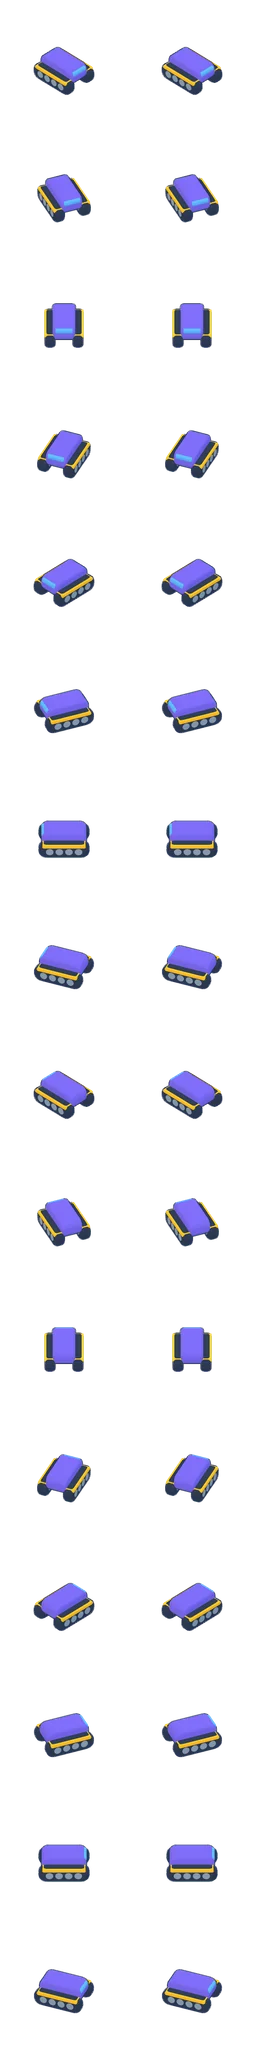
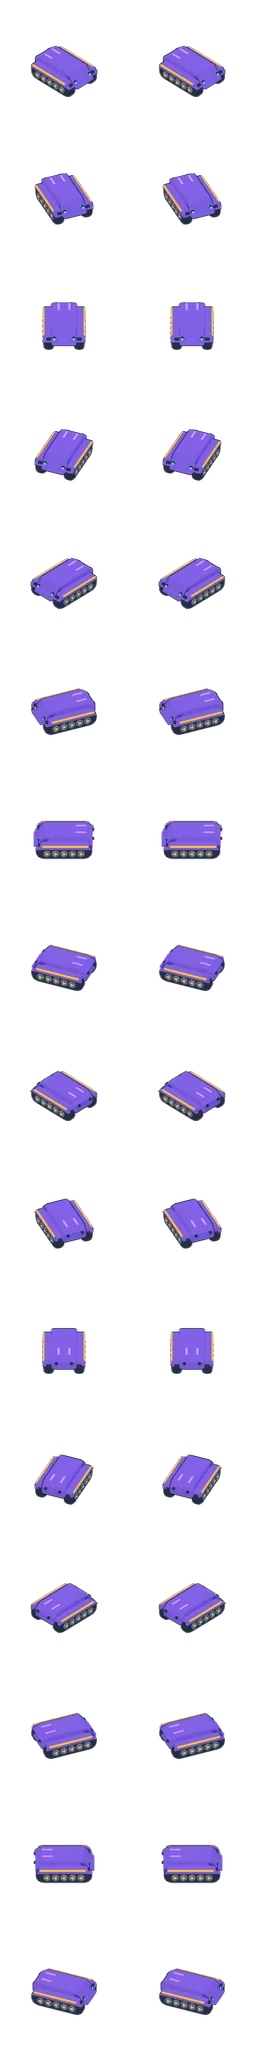
Redesign 3D bomber, helicopter and tanks with detailed military models (392)
Claude-Session: https://claude.ai/code/session_01ENEEn5t6aRdnVfFLYAeBwL

diff --git a/features/render3d/vehicles3d.html b/features/render3d/vehicles3d.html
@@ -8,7 +8,7 @@ const canvas=document.getElementById('c');
 const R=new T.WebGLRenderer({canvas,antialias:true,alpha:true,preserveDrawingBuffer:true});
 R.setClearColor(0,0);R.outputColorSpace=T.SRGBColorSpace;
 const S=new T.Scene();
-const cam=new T.OrthographicCamera(-2.2,2.2,2.4,-2.0,0.1,100);cam.position.set(10,11.17,10);cam.lookAt(0,0.3,0);
+const cam=new T.OrthographicCamera(-2.1,2.1,2.3,-1.9,0.1,100);cam.position.set(10,11.17,10);cam.lookAt(0,0.3,0);
 S.add(new T.HemisphereLight(0xfff6e8,0x5571a3,1.35));
 const sun=new T.DirectionalLight(0xfff0d6,3.0);sun.position.set(-3,10,7);S.add(sun);
 const rim=new T.DirectionalLight(0x9fe3ff,1.4);rim.position.set(7,3,-5);S.add(rim);
@@ -23,56 +23,114 @@ const cap=(r,l,sx=1,sz=1)=>{const g=new T.CapsuleGeometry(r,l,10,28);g.scale(sx,
 const cyl=(a,b,h,s=28)=>new T.CylinderGeometry(a,b,h,s);
 function rbox(w,h,d,r){r=Math.min(r,w/2-0.001,h/2-0.001);const s=new T.Shape(),x=-w/2+r,y=-h/2+r;s.moveTo(x,-h/2);s.lineTo(w/2-r,-h/2);s.quadraticCurveTo(w/2,-h/2,w/2,y);s.lineTo(w/2,h/2-r);s.quadraticCurveTo(w/2,h/2,w/2-r,h/2);s.lineTo(x,h/2);s.quadraticCurveTo(-w/2,h/2,-w/2,h/2-r);s.lineTo(-w/2,y);s.quadraticCurveTo(-w/2,-h/2,x,-h/2);
  const dd=Math.max(0.01,d-2*r*0.6);const geo=new T.ExtrudeGeometry(s,{depth:dd,bevelEnabled:true,bevelSize:r*0.6,bevelThickness:r*0.6,bevelSegments:5,curveSegments:10});geo.translate(0,0,-dd/2);geo.computeVertexNormals();return geo;}
-const W=M(0xe6eef8),B=M(0x4f9fe0),NV=M(0x2b4f8f),G=M(0xf2a91e),D=M(0x27324a),ST=M(0x7a8aa0),PU=M(0x6a5ad8),
- GLOW=new T.MeshBasicMaterial({color:0x5ff2ff}),FIRE=new T.MeshBasicMaterial({color:0xffb04a,transparent:true,opacity:.9}),
- BLUR=new T.MeshBasicMaterial({color:0xdfefff,transparent:true,opacity:.35,side:T.DoubleSide}),HOT=new T.MeshBasicMaterial({color:0xffe08a,transparent:true,opacity:.95});
+const W=M(0xe3eaf3),LG=M(0xb9c6d6),B=M(0x3f8fd8),NV=M(0x24426f),G=M(0xf2a91e),D=M(0x232a3b),ST=M(0x5d6c84),PU=M(0x6b4fc8),PU2=M(0x4a3596),RD=M(0xd8322b),
+ GLASS=M(0x2f73b3,0x0b2a48),GLOW=new T.MeshBasicMaterial({color:0x5ff2ff}),PGLOW=new T.MeshBasicMaterial({color:0xd59bff}),
+ JET=new T.MeshBasicMaterial({color:0x8ff4ff,transparent:true,opacity:.9}),FIRE=new T.MeshBasicMaterial({color:0xffb04a,transparent:true,opacity:.9}),
+ BLUR=new T.MeshBasicMaterial({color:0xe8f4ff,transparent:true,opacity:.07,side:T.DoubleSide,depthWrite:false}),HOT=new T.MeshBasicMaterial({color:0xffe08a,transparent:true,opacity:.95}),
+ NAVR=new T.MeshBasicMaterial({color:0xff4a3a}),NAVG=new T.MeshBasicMaterial({color:0x5dff7a});
+// flat shape (x,y) extruded to thickness t, lying in the x-z plane (y of the shape becomes z)
+function plate(pts,t,bev=0.03){const sh=new T.Shape();pts.forEach((q,i)=>i?sh.lineTo(q[0],q[1]):sh.moveTo(q[0],q[1]));
+ const g=new T.ExtrudeGeometry(sh,{depth:Math.max(0.005,t-2*bev),bevelEnabled:true,bevelSize:bev,bevelThickness:bev,bevelSegments:4,curveSegments:8});g.translate(0,0,-(t-2*bev)/2);g.rotateX(-Math.PI/2);g.computeVertexNormals();return g;}
+// vertical side-profile shape (x,y) extruded to width w along z
+function prof(pts,w,bev=0.05){const sh=new T.Shape();pts.forEach((q,i)=>i?sh.lineTo(q[0],q[1]):sh.moveTo(q[0],q[1]));
+ const g=new T.ExtrudeGeometry(sh,{depth:Math.max(0.005,w-2*bev),bevelEnabled:true,bevelSize:bev,bevelThickness:bev,bevelSegments:4,curveSegments:8});g.translate(0,0,-(w-2*bev)/2);g.computeVertexNormals();return g;}
+// smooth body of revolution along x (pts = [radius, x] from tail to nose)
+function lathe(pts){const g=new T.LatheGeometry(pts.map(q=>new T.Vector2(q[0],q[1])),40);g.rotateZ(-Math.PI/2);g.computeVertexNormals();return g;}
 const MODELS={
- bomber(){const r=new T.Group(),anim=[];
-  mesh(cap(0.32,1.5).rotateZ(Math.PI/2),W,r);                                   // fuselage
-  mesh(sph(0.3,1.2,0.75,1),GLOW,r,1).position.set(0.78,0.16,0);                  // canopy
-  mesh(sph(0.33,0.9,0.5,1.02),NV,r,0).position.set(-0.1,0.2,0);                   // spine stripe
-  for(const s of [1,-1]){const wing=mesh(rbox(0.62,0.09,1.35,0.06),NV,r);wing.position.set(-0.15,0,s*0.85);wing.rotation.y=-s*0.38;
-   mesh(rbox(0.64,0.1,0.16,0.04),G,wing,0).position.set(0,0.0,s*0.6);
-   for(const k of [0.5,1.0]){const eng=new T.Group();eng.position.set(0.05-k*0.32,-0.08,s*k*0.92);r.add(eng);
-    mesh(cap(0.12,0.38).rotateZ(Math.PI/2),W,eng);mesh(cyl(0.13,0.13,0.08).rotateZ(Math.PI/2),G,eng,0).position.x=0.2;
-    const ex=new T.Mesh(sph(0.1,1.6,0.8,0.8),FIRE);ex.position.x=-0.38;eng.add(ex);anim.push(ex);}
-   const tail=mesh(rbox(0.45,0.08,0.7,0.05),NV,r);tail.position.set(-0.95,0.05,s*0.42);tail.rotation.y=-s*0.45;}
-  const fin=mesh(rbox(0.45,0.55,0.08,0.05),B,r);fin.position.set(-1.0,0.32,0);fin.rotation.z=0.35;
-  for(const z of [0.13,-0.13]){const bomb=mesh(cap(0.08,0.24).rotateZ(Math.PI/2),D,r);bomb.position.set(0.05,-0.3,z);mesh(sph(0.06),M(0xd8322b),bomb,0).position.x=0.2;}
-  return {root:r,anim:t=>anim.forEach((e,i)=>e.scale.setScalar(t%2?0.8:1.15)),muzzle:null};},
- heli(){const r=new T.Group();
-  mesh(sph(0.42,1.35,0.95,1),W,r).position.set(0.15,0,0);
-  mesh(sph(0.3,1.1,0.8,0.95),GLOW,r,1).position.set(0.5,0.08,0);
-  mesh(sph(0.43,1.1,0.55,1.02),B,r,0).position.set(0,0.22,0);
-  const boom=mesh(cap(0.1,1.1).rotateZ(Math.PI/2),W,r);boom.position.set(-0.85,0.12,0);
-  mesh(rbox(0.3,0.4,0.06,0.04),B,r).position.set(-1.45,0.32,0);
-  const tr=new T.Mesh(cyl(0.22,0.22,0.02,24).rotateX(Math.PI/2),BLUR);tr.position.set(-1.45,0.32,0.07);r.add(tr);
-  for(const s of [1,-1]){const sk=mesh(cap(0.04,0.9).rotateZ(Math.PI/2),ST,r);sk.position.set(0.15,-0.48,s*0.32);
-   const pod=mesh(cap(0.09,0.35).rotateZ(Math.PI/2),D,r);pod.position.set(0.25,-0.12,s*0.55);mesh(rbox(0.1,0.06,0.5,0.03),NV,r).position.set(0.15,-0.05,s*0.32);}
-  const mast=mesh(cyl(0.06,0.06,0.25),ST,r);mast.position.set(0.15,0.48,0);
-  const rot=new T.Group();rot.position.set(0.15,0.62,0);r.add(rot);
-  mesh(cyl(0.1,0.1,0.06),G,rot);
-  const blades=[];for(let k=0;k<4;k++){const b=mesh(rbox(1.15,0.03,0.12,0.02),NV,rot);b.position.x=0.58;const pv=new T.Group();pv.add(b);pv.rotation.y=k*Math.PI/2;rot.add(pv);blades.push(pv);}
-  const disc=new T.Mesh(cyl(1.2,1.2,0.01,40),BLUR);rot.add(disc);
-  const mz=new T.Group();mz.position.set(0.45,-0.12,0.55);r.add(mz);
-  return {root:r,anim:t=>{rot.rotation.y=t*Math.PI/6;},muzzle:mz};},
- tankHull(plasma){const r=new T.Group(),treads=[];const body=plasma?PU:W,trim=plasma?B:NV;
-  for(const s of [1,-1]){const tr=mesh(rbox(1.5,0.36,0.34,0.17),D,r);tr.position.set(0,0.2,s*0.48);
-   for(let i=0;i<4;i++){const w=mesh(cyl(0.13,0.13,0.36,20).rotateX(Math.PI/2),ST,r,0);w.position.set(-0.5+i*0.33,0.18,s*0.48);treads.push(w);}
-   mesh(rbox(1.45,0.08,0.38,0.04),G,r,0).position.set(0,0.4,s*0.48);}
-  mesh(rbox(1.35,0.38,0.78,0.16),body,r).position.set(0,0.48,0);
-  mesh(rbox(0.5,0.12,0.6,0.05),trim,r,0).position.set(0.5,0.62,0);
-  if(plasma){for(const z of [0.3,-0.3]){const c=new T.Mesh(sph(0.07),GLOW);c.position.set(-0.6,0.55,z);r.add(c);}}
-  return {root:r,anim:t=>treads.forEach(w=>w.rotation.z=-t*0.8),muzzle:null};},
- tankTurret(plasma){const r=new T.Group(),tur=new T.Group();tur.position.y=0.67;r.add(tur);const body=plasma?PU:W;
-  mesh(sph(0.36,1.15,0.6,1),body,tur).position.y=0.12;
-  mesh(sph(0.2,0.8,0.5,0.8),plasma?B:NV,tur,0).position.set(-0.05,0.26,0);
-  const barrel=new T.Group();barrel.position.set(0.3,0.15,0);tur.add(barrel);
-  mesh(cyl(0.08,0.09,0.9).rotateZ(-Math.PI/2),plasma?D:ST,barrel).position.x=0.45;
-  mesh(cyl(0.11,0.11,0.12).rotateZ(-Math.PI/2),G,barrel,0).position.x=0.85;
-  if(plasma){for(let i=0;i<3;i++){const ring=new T.Mesh(new T.TorusGeometry(0.11,0.025,8,24).rotateY(Math.PI/2),GLOW);ring.position.x=0.25+i*0.18;barrel.add(ring);}}
-  const mz=new T.Group();mz.position.x=0.95;barrel.add(mz);
-  return {root:r,anim:t=>{barrel.position.x=t?0.22:0.3;},muzzle:mz};}
+ bomber(){const r=new T.Group(),anim=[];r.position.y=0.2;
+  const prof0=[[0,-1.5],[0.1,-1.46],[0.19,-1.2],[0.27,-0.6],[0.31,0.1],[0.3,0.7],[0.24,1.1],[0.13,1.38],[0.02,1.5],[0,1.5]];
+  const fus=mesh(lathe(prof0),NV,r);fus.scale.set(1,0.88,1);
+  const belly=mesh(lathe(prof0),LG,r,0);belly.scale.set(0.985,0.62,1.02);belly.position.y=-0.07;
+  mesh(new T.TorusGeometry(0.305,0.025,8,40).rotateY(Math.PI/2),G,r,0).position.x=-0.25;
+  const can=mesh(sph(0.2,1.9,0.72,0.95),GLASS,r);can.position.set(0.98,0.17,0);
+  mesh(sph(0.07,1.8,0.4,0.5),M(0xbfe9ff),r,0).position.set(1.08,0.27,0.05);
+  // swept main wing, gold tip bands, nav lights
+  const wing=mesh(plate([[0.38,0],[-0.42,1.75],[-0.78,1.75],[-0.62,0],[-0.78,-1.75],[-0.42,-1.75]],0.09),W,r);wing.position.y=-0.02;
+  for(const s of [1,-1]){const tip=mesh(plate([[-0.34,1.5*s],[-0.42,1.75*s],[-0.78,1.75*s],[-0.74,1.5*s]],0.1,0.02),G,r,0);tip.position.y=-0.02;
+   const nl=new T.Mesh(sph(0.045),s>0?NAVG:NAVR);nl.position.set(-0.6,0.0,1.78*s);r.add(nl);
+   mesh(plate([[0.2,0.32*s],[-0.25,1.25*s],[-0.36,1.25*s],[-0.1,0.32*s]],0.095,0.02),NV,r,0).position.y=-0.015;
+   // engines
+   for(const z of [0.62,1.12]){const le=0.38-0.8*(z/1.75),eng=new T.Group();eng.position.set(le-0.2,-0.13,s*z);r.add(eng);
+    mesh(cap(0.105,0.42).rotateZ(Math.PI/2),LG,eng);
+    mesh(new T.TorusGeometry(0.1,0.03,8,24).rotateY(Math.PI/2),G,eng,0).position.x=0.3;
+    mesh(cyl(0.075,0.075,0.04,20).rotateZ(Math.PI/2),D,eng,0).position.x=0.32;
+    mesh(cyl(0.085,0.1,0.1,20).rotateZ(Math.PI/2),D,eng,0).position.x=-0.3;
+    const ex=new T.Mesh(sph(0.08,2.2,0.85,0.85),JET);ex.position.x=-0.46;eng.add(ex);anim.push(ex);
+    mesh(rbox(0.25,0.1,0.05,0.02),W,eng,0).position.set(0,0.1,0);}
+   // twin tail fins and stabilisers
+   const fin=mesh(prof([[0,0],[-0.5,0],[-0.62,0.55],[-0.4,0.55]],0.06,0.02),B,r);fin.position.set(-0.85,0.12,s*0.24);fin.rotation.x=-s*0.28;
+   mesh(prof([[-0.58,0.42],[-0.62,0.55],[-0.4,0.55],[-0.37,0.42]],0.07,0.015),G,fin,0);
+  }
+  mesh(plate([[-0.95,0],[-1.3,0.75],[-1.48,0.75],[-1.42,0],[-1.48,-0.75],[-1.3,-0.75]],0.06,0.02),W,r).position.y=0.05;
+  // bomb bay + belly turret
+  mesh(rbox(0.7,0.04,0.3,0.02),D,r,0).position.set(0.05,-0.25,0);
+  mesh(sph(0.09,1,0.7,1),GLASS,r).position.set(-0.55,-0.22,0);
+  return {root:r,anim:t=>anim.forEach((e,i)=>{const k=(t+i)%2?0.8:1.15;e.scale.set(k*1.1,k,k);}),muzzle:null};},
+ heli(){const r=new T.Group();r.position.y=0.05;
+  const body=mesh(lathe([[0,-0.5],[0.25,-0.42],[0.36,-0.1],[0.36,0.25],[0.28,0.55],[0.12,0.72],[0,0.75]]),NV,r);body.scale.set(1,1.05,0.92);
+  mesh(lathe([[0,-0.5],[0.25,-0.42],[0.36,-0.1],[0.36,0.25],[0.28,0.55],[0.12,0.72],[0,0.75]]),LG,r,0).scale.set(0.98,0.7,0.95);r.children.at(-1).position.y=-0.1;
+  const can=mesh(sph(0.24,1.25,0.8,0.82),GLASS,r);can.position.set(0.38,0.16,0);
+  mesh(sph(0.06,1.6,0.5,0.6),M(0xbfe9ff),r,0).position.set(0.5,0.27,0.07);
+  const boom=mesh(lathe([[0.02,-1.0],[0.07,-0.95],[0.12,-0.2],[0.16,0.1],[0,0.15]]),NV,r);boom.position.set(-0.45,0.12,0);
+  mesh(prof([[0,0],[-0.3,0],[-0.38,0.42],[-0.2,0.42]],0.05,0.02),B,r).position.set(-1.25,0.12,0);
+  mesh(plate([[-1.25,0],[-1.4,0.28],[-1.5,0.28],[-1.45,0],[-1.5,-0.28],[-1.4,-0.28]],0.04,0.015),W,r).position.y=0.14;
+  const trot=new T.Group();trot.position.set(-1.4,0.38,0.06);r.add(trot);
+  trot.add(new T.Mesh(cyl(0.2,0.2,0.01,28).rotateX(Math.PI/2),BLUR));mesh(cyl(0.04,0.04,0.04).rotateX(Math.PI/2),G,trot,0);
+  const tbl=[];for(let k=0;k<2;k++){const b=mesh(rbox(0.38,0.04,0.015,0.01),D,trot,0);b.rotation.z=k*Math.PI/2;tbl.push(b);}
+  for(const s of [1,-1]){const sk=mesh(cap(0.03,0.85).rotateZ(Math.PI/2),D,r);sk.position.set(0.05,-0.45,s*0.3);
+   for(const x of [0.25,-0.15]){const st=mesh(cyl(0.022,0.022,0.2),D,r,0);st.position.set(x,-0.36,s*0.27);}
+   const sw=mesh(plate([[0.15,0.2*s],[0.05,0.55*s],[-0.15,0.55*s],[-0.15,0.2*s]],0.06,0.02),W,r);sw.position.y=-0.05;
+   const pod=mesh(cyl(0.1,0.1,0.38,16).rotateZ(Math.PI/2),D,r);pod.position.set(0.0,-0.14,s*0.5);
+   for(let k=0;k<4;k++){const a=k*Math.PI/2+Math.PI/4;const tip=new T.Mesh(sph(0.03),NAVR);tip.position.set(0.2,-0.14+Math.sin(a)*0.05,s*0.5+Math.cos(a)*0.05);r.add(tip);}
+   mesh(new T.TorusGeometry(0.1,0.02,8,20).rotateY(Math.PI/2),G,r,0).position.set(0.12,-0.14,s*0.5);}
+  // chin gun
+  const chin=mesh(sph(0.09),D,r);chin.position.set(0.55,-0.2,0);const gun=mesh(cyl(0.03,0.03,0.3,12).rotateZ(-Math.PI/2),ST,r,0);gun.position.set(0.72,-0.22,0);
+  const mast=mesh(cyl(0.07,0.09,0.2),D,r);mast.position.set(0.0,0.42,0);
+  const rot=new T.Group();rot.position.set(0.0,0.55,0);r.add(rot);
+  mesh(sph(0.1,1,0.6,1),G,rot);
+  for(let k=0;k<4;k++){const pv=new T.Group();pv.rotation.y=k*Math.PI/2;rot.add(pv);const b=mesh(rbox(1.25,0.025,0.1,0.012),D,pv);b.position.x=0.66;mesh(rbox(0.12,0.03,0.105,0.01),G,pv,0).position.x=1.22;}
+  const disc=new T.Mesh(cyl(1.3,1.3,0.005,48),BLUR);rot.add(disc);
+  const mz=new T.Group();mz.position.set(0.88,-0.22,0);r.add(mz);
+  return {root:r,anim:t=>{rot.rotation.y=t*Math.PI/6;trot.rotation.z=t*1.3;},muzzle:mz};},
+ tankHull(plasma){const r=new T.Group(),wheels=[],links=[];const H=plasma?PU:W,T2=plasma?PU2:NV;
+  for(const s of [1,-1]){
+   // track belt with tread links
+   const belt=mesh(rbox(1.6,0.34,0.3,0.17),D,r);belt.position.set(0,0.19,s*0.5);
+   for(let i=0;i<10;i++){const l=mesh(rbox(0.07,0.03,0.31,0.012),ST,r,0);l.position.set(-0.68+i*0.15,0.365,s*0.5);links.push(l);}
+   for(let i=0;i<5;i++){const w=new T.Group();w.position.set(-0.56+i*0.28,0.16,s*0.66);r.add(w);mesh(cyl(0.12,0.12,0.05,22).rotateX(Math.PI/2),ST,w);
+    mesh(cyl(0.05,0.05,0.06,12).rotateX(Math.PI/2),G,w,0);for(let k=0;k<3;k++){const bolt=mesh(sph(0.018),D,w,0);bolt.position.set(Math.cos(k*2.1)*0.08,Math.sin(k*2.1)*0.08,s*0.03);}wheels.push(w);}
+   // fender / side skirt
+   const fen=mesh(prof([[0.86,0.33],[0.72,0.44],[-0.78,0.44],[-0.84,0.33]],0.36,0.03),H,r);fen.position.z=s*0.5;
+   mesh(rbox(1.5,0.04,0.05,0.015),G,r,0).position.set(-0.04,0.445,s*0.665);
+   const hl=new T.Mesh(sph(0.05,0.6,1,1),GLOW);hl.position.set(0.86,0.42,s*0.32);r.add(hl);
+   mesh(cyl(0.07,0.07,0.06,16).rotateZ(Math.PI/2),D,r,0).position.set(0.84,0.42,s*0.32);}
+  // hull: sloped glacis, engine deck
+  mesh(prof([[0.92,0.3],[0.62,0.62],[-0.7,0.62],[-0.88,0.5],[-0.88,0.3]],0.82,0.06),H,r);
+  mesh(prof([[0.85,0.38],[0.66,0.56],[0.5,0.56],[0.7,0.38]],0.84,0.02),T2,r,0);
+  for(let i=0;i<3;i++){const v=mesh(rbox(0.06,0.03,0.5,0.012),D,r,0);v.position.set(-0.45-i*0.12,0.645,0);}
+  for(const z of [0.25,-0.25]){const ex=mesh(cyl(0.05,0.05,0.12,14).rotateZ(Math.PI/2),D,r,0);ex.position.set(-0.93,0.48,z);}
+  if(plasma){for(const z of [0.18,-0.18]){const c=new T.Mesh(cap(0.04,0.3).rotateZ(Math.PI/2),PGLOW);c.position.set(-0.55,0.66,z);r.add(c);}}
+  return {root:r,anim:t=>{wheels.forEach(w=>w.rotation.z=-t*1.1);links.forEach((l,i)=>l.position.x=-0.68+((i*0.15+t*0.075)%1.5));},muzzle:null};},
+ tankTurret(plasma){const r=new T.Group(),tur=new T.Group();tur.position.y=0.62;r.add(tur);const H=plasma?PU:W,T2=plasma?PU2:NV;
+  // hexagonal turret (top view), bevelled
+  const hex=mesh(plate([[0.5,0],[0.3,0.38],[-0.38,0.4],[-0.52,0.2],[-0.52,-0.2],[-0.38,-0.4],[0.3,-0.38]],0.26,0.06),H,tur);hex.position.y=0.13;
+  mesh(plate([[0.4,0],[0.24,0.3],[-0.3,0.3],[-0.4,0.15],[-0.4,-0.15],[-0.3,-0.3],[0.24,-0.3]],0.06,0.02),T2,tur,0).position.y=0.28;
+  mesh(new T.TorusGeometry(0.46,0.022,8,48),G,tur,0).rotation.x=Math.PI/2;tur.children.at(-1).position.y=0.02;
+  // commander cupola + hatch + antenna
+  const cup=mesh(cyl(0.12,0.14,0.08,20),D,tur);cup.position.set(-0.18,0.34,0.15);mesh(cyl(0.1,0.1,0.03,20),H,tur,0).position.set(-0.18,0.39,0.15);
+  const ant=mesh(cyl(0.012,0.012,0.6,8),D,tur,0);ant.position.set(-0.42,0.55,-0.22);mesh(sph(0.03),RD,tur,0).position.set(-0.42,0.86,-0.22);
+  for(const s of [1,-1]){const box=mesh(rbox(0.3,0.14,0.08,0.03),T2,tur);box.position.set(-0.1,0.13,s*0.44);
+   for(let k=0;k<2;k++){const sm=mesh(cyl(0.035,0.035,0.1,10).rotateX(Math.PI/2),D,tur,0);sm.position.set(0.28,0.2+k*0.07,s*0.37);}}
+  const mant=mesh(rbox(0.16,0.2,0.3,0.05),T2,tur);mant.position.set(0.5,0.14,0);
+  const barrel=new T.Group();barrel.position.set(0.5,0.14,0);tur.add(barrel);
+  if(plasma){mesh(cyl(0.11,0.1,0.75,24).rotateZ(-Math.PI/2),D,barrel).position.x=0.42;
+   for(let i=0;i<4;i++){const ring=new T.Mesh(new T.TorusGeometry(0.115,0.028,8,24).rotateY(Math.PI/2),PGLOW);ring.position.x=0.2+i*0.15;barrel.add(ring);}
+   mesh(cyl(0.15,0.13,0.12,24).rotateZ(-Math.PI/2),G,barrel,0).position.x=0.84;const tip=new T.Mesh(sph(0.08),PGLOW);tip.position.x=0.9;barrel.add(tip);}
+  else{mesh(cyl(0.055,0.065,1.0,20).rotateZ(-Math.PI/2),ST,barrel).position.x=0.55;
+   mesh(cyl(0.085,0.085,0.18,20).rotateZ(-Math.PI/2),D,barrel,0).position.x=0.5;
+   mesh(rbox(0.16,0.11,0.17,0.03),D,barrel).position.x=1.07;mesh(rbox(0.04,0.115,0.175,0.01),G,barrel,0).position.x=1.0;}
+  const mz=new T.Group();mz.position.x=plasma?0.98:1.16;barrel.add(mz);
+  return {root:r,anim:t=>{barrel.position.x=t?0.4:0.5;},muzzle:mz};}
 };
 const flash=new T.Mesh(new T.SphereGeometry(0.17,14,10),HOT);
 let cur=null,key=null;

diff --git a/features/render3d/vehicles3d392.js b/features/render3d/vehicles3d392.js
@@ -1,7 +1,7 @@
 // 392: pre-rendered 3D vehicles — heavy bomber (7), attack helicopter (5), tank (1), plasma tank (9).
 // 16 directions per atlas (render-vehicles.cjs); tanks draw hull by heading and turret by aim.
 var veh3d392={};['bomber','heli','tankHull','tankTurret','tankHull:plasma','tankTurret:plasma'].forEach(function(n){var m=vehicles3dMeta392&&vehicles3dMeta392[n];if(!m)return;var img=new Image();img.onload=function(){drawNeeded=true;};img.src='assets/veh3d392-'+n.replace(':','-')+'.webp';veh3d392[n]={meta:m,img:img};});
-var veh3dSize392={bomber:[84,34],heli:[58,26],tank:[46,0]};
+var veh3dSize392={bomber:[104,36],heli:[64,26],tank:[54,0]};
 function veh3dReady392(n){var v=veh3d392[n];return v&&v.img.complete&&v.img.naturalWidth?v:null;}
 function veh3dDir392(a){var n=vehicles3dMeta392.dirs;return ((Math.round(a/(2*Math.PI/n))%n)+n)%n;}
 function veh3dK392(n){var key=n==='bomber'||n==='heli'?n:'tank',base=veh3d392[key==='tank'?(n.indexOf('plasma')>0?'tankHull:plasma':'tankHull'):n].meta.w;return veh3dSize392[key][0]/base;}
